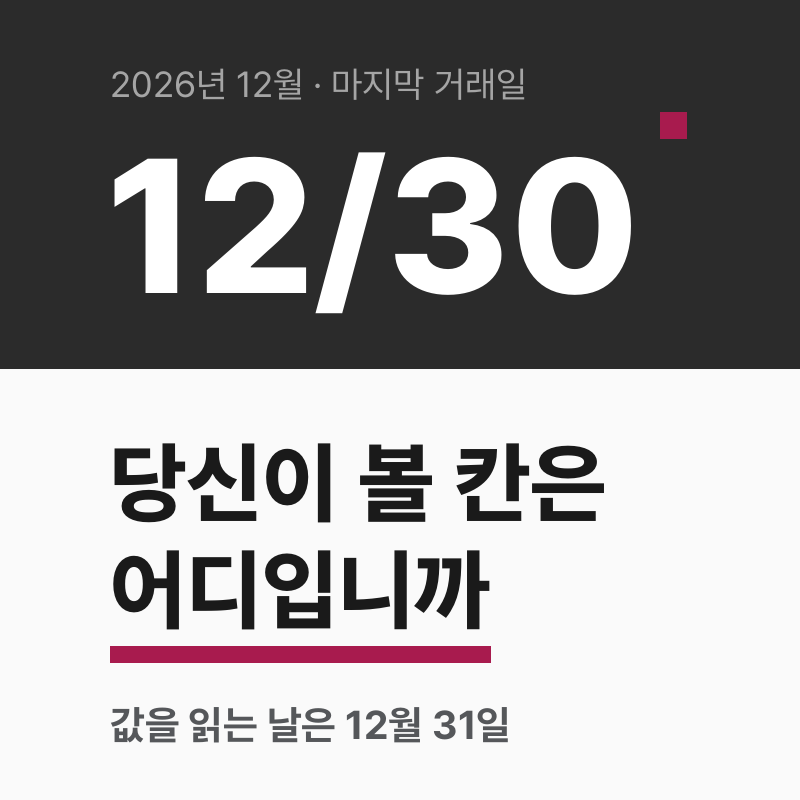
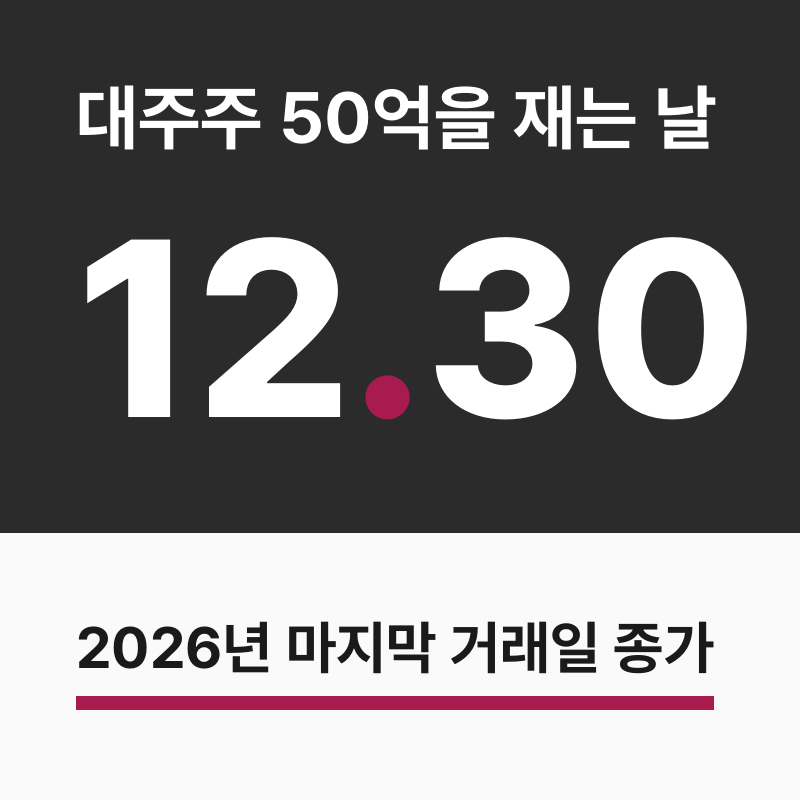
지면 — /28 썸네일 1안·3안 재작성, 2안 폐기
글자 크기 고정값 제거. 가장 긴 줄이 목표 폭에 들어가는 최대 크기를 실측으로
찾는 방식으로 교체 — 문구가 길어지면 작아질 뿐 잘리지 않는다.
잘림 0건. 지면이 지어 붙였던 줄 전부 삭제, 포착 정본 문자열만 사용.

Claude-Session: https://claude.ai/code/session_01Q2phF8jfFGCqbh6nMM2kyu

diff --git a/작업/20260922_대주주기준일/06_지면.md b/작업/20260922_대주주기준일/06_지면.md
@@ -205,3 +205,53 @@ python3 <스크래치패드>/thumb.py
 
 **「지면」은 문구를 고치지 않았다.** 대신 **줄바꿈으로 흡수**했다(1안 3줄 · 2안 역순 2단 · 3안 2줄). 조판은 「지면」 재량이고 문구 수정이 아니다.
 **되돌리지 않은 이유는 회장 지시가 「최단시간 제작」이기 때문이다.** 상한을 지키려면 「포착」이 12자 이내로 줄여야 한다 — 판단은 사장 몫으로 넘긴다.
+
+---
+
+## 9. 썸네일 재작성 — 2026-09-23 (회장 지시 · 문구 개정판)
+
+**회장이 2안을 탈락시켰다**(완성도 · 「2026년 12월」 위치). **1안·3안만 남기고 문구를 「포착」 개정 정본으로 갈아 끼웠다.**
+**「지면」은 문구를 한 글자도 보태지 않았다.** 직전판에서 「지면」이 지어 붙인 줄(「값을 읽는 날은 12월 31일」·「12/30」 표기)은 **전부 뺐다.**
+
+| | 1안 — 먹지형 | 3안 — 상하분할형 |
+|---|---|---|
+| 주문구 | 대주주 50억은 / 12월 30일 / 종가로 갈립니다 | 대주주 50억을 재는 날 |
+| 앵커 | — | **12.30** |
+| 보조문구 | 2026년 마지막 거래일 | 2026년 마지막 거래일 종가 |
+| 포인트색 | 주황 `#FF6A13` — **「12월 30일」 줄에만**(글자+밑줄) | 자주 `#A81B4E` — 앵커의 점 + 하단 바 |
+| 바탕 | 먹색 `#141414` 단색 | 진회 `#2B2B2B` / 흰 `#FAFAFA` 상하분할 |
+
+### 잘림 — 0건. 조판으로 해결했다
+
+**회장이 「글씨가 많아서 잘렸어요」를 불허했다.** 그래서 **글자 크기를 고정값으로 박지 않고, 줄 중 가장 긴 것이 목표 폭에 들어가는 최대 크기를 실측으로 찾아 쓴다**(`fit()`). 문구가 길어지면 글자가 작아질 뿐 **잘리지 않는다.**
+
+```
+요소 수: 11 / 캔버스 이탈(잘림) 요소: 0건
+최소 x: 72 · 최대 x: 757.6 · 최소 y: 85 · 최대 y: 709   (캔버스 800×800)
+```
+
+**정방형 확인** — `python3 -c "from PIL import Image; ..."` → 1안 `(800, 800) True` · 3안 `(800, 800) True`.
+**규격은 정방형 하나만 고정이고 나머지는 「지면」이 정했다**(2026-09-23 회장 지시). 폐기된 값(안전영역 613px·헤드라인 12자·유채색 2색 상한)은 적용하지 않았다.
+
+### 본문에 없는 것을 약속하지 않았다
+
+| 썸네일이 말한 것 | 본문 어디 |
+|---|---|
+| 12월 30일 · 종가 | `05_원고.md` 표1 **「50억을 재는 값 = 12월 30일 수요일 종가」** + 문단 `2-4` |
+| 2026년 마지막 거래일 | 표1 **「올해 마지막 거래일 = 12월 30일 수요일」** |
+| 대주주 50억 | 문단 `2-3` (대통령령 제36343호, 50억) |
+
+### 22장 틀의 네 요소 — 각각 어떻게 피했나
+
+| 22장 | 이번 |
+|---|---|
+| 남색 배경 | 1안 먹색 단색 · 3안 진회/흰 분할. **남색 0** |
+| 노란 배지 | **배지 도형 자체가 없다.** 1안은 밑줄 바, 3안은 하단 바 |
+| 흰 2줄 제목 | 1안 **3줄**(한 줄만 주황) · 3안 **숫자 앵커 + 1줄**. 2줄 구성 아님 |
+| 노란 키워드 | 주황 1색 / 자주 1색. **노랑 0** |
+
+### 직전 3편과 다른가
+
+`/22`·`/21`·`/19` 계열은 전부 **밝은 바탕 + 중앙 배치**였다. 1안은 **먹색 바탕 좌측정렬 3줄**, 3안은 **상하분할 + 초대형 숫자**다. **두 장끼리도 바탕(먹색 vs 분할)·포인트색(주황 vs 자주)·구조(문장 3줄 vs 숫자 앵커)가 전부 갈린다.** 도장처럼 같아 보이지 않는다.
+
+**손톱 판독** — `06_조사_경쟁썸네일/06_썸네일_1안_58px.png`·`_3안_58px.png`(58×58로 줄였다 확대). 1안은 3줄 전부, 3안은 「12.30」과 주문구가 읽힌다.

diff --git a/작업/20260922_대주주기준일/00_공정일지.md b/작업/20260922_대주주기준일/00_공정일지.md
@@ -4586,3 +4586,7 @@ B 업로드 TXT   len= 4976  md5=d2d439a0fb137400bf4d579658f958ac
 ---
 
 [수취] 「지면」 — **받음(조건부)**. `06_제목.md` §5 주문구 「당신이 볼 칸은 어디입니까」는 **공백 포함 14자**로 D-105 헤드라인 상한 12자를 2자 초과한다(`python3 -c "print(len('당신이 볼 칸은 어디입니까'))"` → 14). 회장 지시가 「최단시간 제작」이므로 되돌리지 않고 **조판(줄바꿈)으로 흡수해 3안을 만들고, 초과 사실을 사장에게 보고**한다. 본문 대조 — 보조문구 「마지막 거래일 12월 30일(수)」는 `05_원고.md` 표1·`1-5`에 있는 사실이고 썸네일이 본문에 없는 것을 약속하지 않는다.
+
+---
+
+[수취] 「지면」 — **받음**(2026-09-23 재작성분). `06_제목.md` §5 개정 정본(1안 주문구 3줄 「대주주 50억은/12월 30일/종가로 갈립니다」 최장 8자, 3안 주문구 11자·보조문구 14자)을 받았다. **잘릴 자리가 없다** — 자동 폭맞춤으로 캔버스 이탈 0건 확인. 본문 대조 — 「12월 30일 종가」는 `05_원고.md` 표1 「50억을 재는 값」 칸과 문단 `2-4`, 「마지막 거래일」은 표1 「올해 마지막 거래일」 칸에 실물로 있다. **2안은 회장 탈락 지시로 `폐기/`로 옮겼다.**
